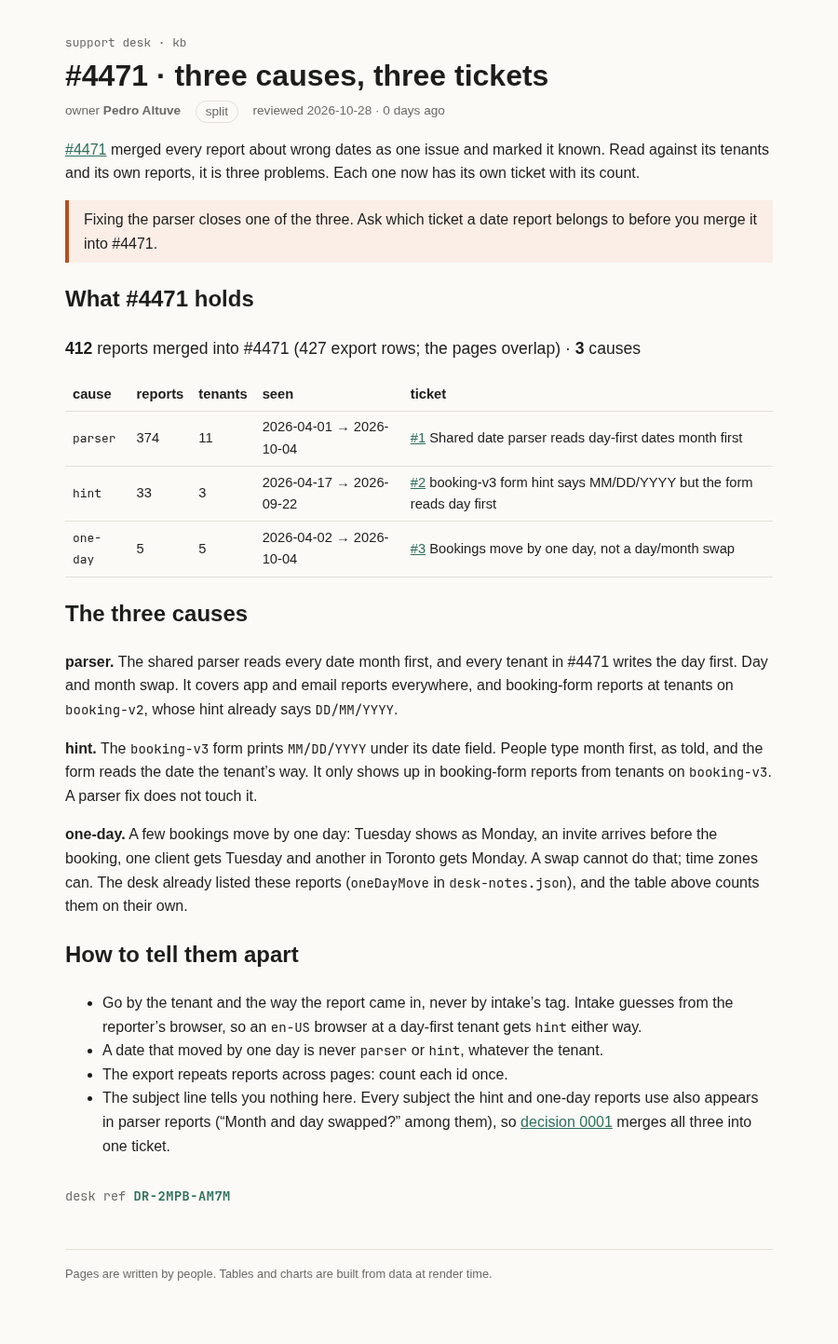
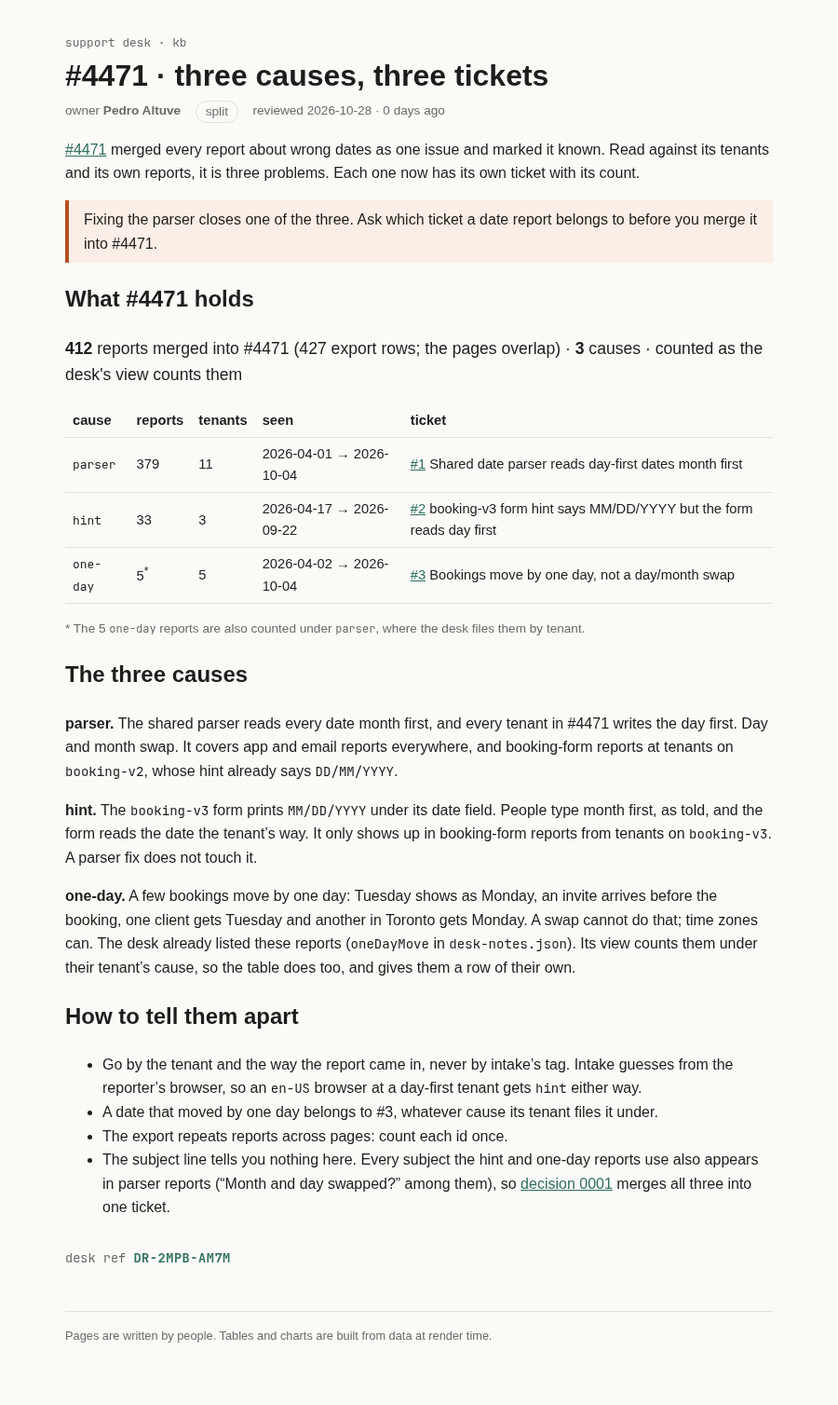
fix(kb): count #4471 causes as the desk's view counts them
Parser now counts 379, with the 5 one-day moves also counted where the
desk files them; they keep their own row for #3.

diff --git a/docs/site/kb/incidents/4471/causes/index.html b/docs/site/kb/incidents/4471/causes/index.html
@@ -9,46 +9,46 @@
 		<link href="../../../../_app/immutable/chunks/B2Ul7l_u.js" rel="modulepreload">
 		<link href="../../../../_app/immutable/chunks/BCPXOG7W.js" rel="modulepreload">
 		<link href="../../../../_app/immutable/chunks/Dh1V97Jm.js" rel="modulepreload">
-		<link href="../../../../_app/immutable/entry/app.B_okr8ek.js" rel="modulepreload">
+		<link href="../../../../_app/immutable/entry/app.Bed0JW7n.js" rel="modulepreload">
 		<link href="../../../../_app/immutable/nodes/0.BurGglGN.js" rel="modulepreload">
 		<link href="../../../../_app/immutable/chunks/DK3Fl9T5.js" rel="modulepreload">
-		<link href="../../../../_app/immutable/nodes/5._k2RzG7D.js" rel="modulepreload">
-		<link href="../../../../_app/immutable/chunks/BHTSmRNv.js" rel="modulepreload">
+		<link href="../../../../_app/immutable/nodes/5.BCavWPso.js" rel="modulepreload">
+		<link href="../../../../_app/immutable/chunks/CW1c4Dxm.js" rel="modulepreload">
 		<link href="../../../../_app/immutable/chunks/BTPwLomz.js" rel="modulepreload">
 		<link href="../../../../_app/immutable/chunks/CVBzP17p.js" rel="modulepreload">
 		<link href="../../../../_app/immutable/chunks/BIy4WKJS.js" rel="modulepreload">
 		<!--e2jw2j--><!----><title>#4471 · three causes, three tickets · support kb</title>
 		<link href="../../../../_app/immutable/assets/runbook.COyw0cbZ.css" rel="stylesheet">
 		<link href="../../../../_app/immutable/assets/Callout.AbLv9dM_.css" rel="stylesheet">
-		<link href="../../../../_app/immutable/assets/_page.BqHO3EsS.css" rel="stylesheet">
+		<link href="../../../../_app/immutable/assets/_page.53w74Nij.css" rel="stylesheet">
   </head>
   <body data-sveltekit-preload-data="hover">
     <div style="display: contents"><!--[--><!--[--><!--[0--><!--[--><!--[--><!--[-1--><!--[--><div class="kb svelte-e2jw2j"><header><a class="crumb svelte-e2jw2j" href="/kb">support desk · kb</a> <h1 class="svelte-e2jw2j">#4471 · three causes, three tickets</h1> <p class="meta svelte-e2jw2j"><span>owner <b>Pedro Altuve</b></span> <span class="status split svelte-e2jw2j">split</span> <span class="svelte-e2jw2j">reviewed 2026-10-28 · 0 days ago</span></p></header> <!--[-1--><!--]--> <main><p><a href="/kb/incidents/4471">#4471</a> merged every report about wrong dates as one issue and marked it known.
 Read against its tenants and its own reports, it is three problems. Each one now has its own
 ticket with its count.</p> <aside class="warn svelte-17bri61"><!---->Fixing the parser closes one of the three. Ask which ticket a date report belongs to before you
-merge it into #4471.<!----></aside><!----> <h2>What #4471 holds</h2> <p class="sum svelte-xskqqx"><strong>412</strong> reports merged into #4471 (427 export rows; the pages overlap) · <strong>3</strong> causes</p> <table><thead><tr><th>cause</th><th>reports</th><th>tenants</th><th>seen</th><th>ticket</th></tr></thead><tbody><!--[--><tr class="svelte-xskqqx"><td class="svelte-xskqqx"><code>parser</code></td><td class="svelte-xskqqx">374</td><td class="svelte-xskqqx">11</td><td class="svelte-xskqqx">2026-04-01 → 2026-10-04</td><td class="svelte-xskqqx"><!--[0--><a href="https://github.com/PedAltuve/mega-dev-kb/issues/1">#1</a> Shared date parser reads day-first dates month first<!--]--></td></tr><tr class="svelte-xskqqx"><td class="svelte-xskqqx"><code>hint</code></td><td class="svelte-xskqqx">33</td><td class="svelte-xskqqx">3</td><td class="svelte-xskqqx">2026-04-17 → 2026-09-22</td><td class="svelte-xskqqx"><!--[0--><a href="https://github.com/PedAltuve/mega-dev-kb/issues/2">#2</a> booking-v3 form hint says MM/DD/YYYY but the form reads day first<!--]--></td></tr><tr class="svelte-xskqqx"><td class="svelte-xskqqx"><code>one-day</code></td><td class="svelte-xskqqx">5</td><td class="svelte-xskqqx">5</td><td class="svelte-xskqqx">2026-04-02 → 2026-10-04</td><td class="svelte-xskqqx"><!--[0--><a href="https://github.com/PedAltuve/mega-dev-kb/issues/3">#3</a> Bookings move by one day, not a day/month swap<!--]--></td></tr><!--]--></tbody></table><!----> <h2>The three causes</h2> <p><strong>parser.</strong> The shared parser reads every date month first, and every tenant in #4471 writes the
+merge it into #4471.<!----></aside><!----> <h2>What #4471 holds</h2> <p class="sum svelte-xskqqx"><strong>412</strong> reports merged into #4471 (427 export rows; the pages overlap) · <strong>3</strong> causes · counted as the desk's view counts them</p> <table><thead><tr><th>cause</th><th>reports</th><th>tenants</th><th>seen</th><th>ticket</th></tr></thead><tbody><!--[--><tr class="svelte-xskqqx"><td class="svelte-xskqqx"><code>parser</code></td><td class="svelte-xskqqx">379<!--[-1--><!--]--></td><td class="svelte-xskqqx">11</td><td class="svelte-xskqqx">2026-04-01 → 2026-10-04</td><td class="svelte-xskqqx"><!--[0--><a href="https://github.com/PedAltuve/mega-dev-kb/issues/1">#1</a> Shared date parser reads day-first dates month first<!--]--></td></tr><tr class="svelte-xskqqx"><td class="svelte-xskqqx"><code>hint</code></td><td class="svelte-xskqqx">33<!--[-1--><!--]--></td><td class="svelte-xskqqx">3</td><td class="svelte-xskqqx">2026-04-17 → 2026-09-22</td><td class="svelte-xskqqx"><!--[0--><a href="https://github.com/PedAltuve/mega-dev-kb/issues/2">#2</a> booking-v3 form hint says MM/DD/YYYY but the form reads day first<!--]--></td></tr><tr class="svelte-xskqqx"><td class="svelte-xskqqx"><code>one-day</code></td><td class="svelte-xskqqx">5<!--[0--><sup>*</sup><!--]--></td><td class="svelte-xskqqx">5</td><td class="svelte-xskqqx">2026-04-02 → 2026-10-04</td><td class="svelte-xskqqx"><!--[0--><a href="https://github.com/PedAltuve/mega-dev-kb/issues/3">#3</a> Bookings move by one day, not a day/month swap<!--]--></td></tr><!--]--></tbody></table> <!--[--><p class="note svelte-xskqqx">* The 5 <code>one-day</code> reports are also counted under <code>parser</code>, where the desk files them by tenant.</p><!--]--><!----> <h2>The three causes</h2> <p><strong>parser.</strong> The shared parser reads every date month first, and every tenant in #4471 writes the
 day first. Day and month swap. It covers app and email reports everywhere, and booking-form
 reports at tenants on <code>booking-v2</code>, whose hint already says <code>DD/MM/YYYY</code>.</p> <p><strong>hint.</strong> The <code>booking-v3</code> form prints <code>MM/DD/YYYY</code> under its date field. People type month first,
 as told, and the form reads the date the tenant’s way. It only shows up in booking-form reports
 from tenants on <code>booking-v3</code>. A parser fix does not touch it.</p> <p><strong>one-day.</strong> A few bookings move by one day: Tuesday shows as Monday, an invite arrives before
 the booking, one client gets Tuesday and another in Toronto gets Monday. A swap cannot do that;
-time zones can. The desk already listed these reports (<code>oneDayMove</code> in <code>desk-notes.json</code>), and the
-table above counts them on their own.</p> <h2>How to tell them apart</h2> <ul><li>Go by the tenant and the way the report came in, never by intake’s tag. Intake guesses from the
-reporter’s browser, so an <code>en-US</code> browser at a day-first tenant gets <code>hint</code> either way.</li> <li>A date that moved by one day is never <code>parser</code> or <code>hint</code>, whatever the tenant.</li> <li>The export repeats reports across pages: count each id once.</li> <li>The subject line tells you nothing here. Every subject the hint and one-day reports use also
+time zones can. The desk already listed these reports (<code>oneDayMove</code> in <code>desk-notes.json</code>). Its view
+counts them under their tenant’s cause, so the table does too, and gives them a row of their own.</p> <h2>How to tell them apart</h2> <ul><li>Go by the tenant and the way the report came in, never by intake’s tag. Intake guesses from the
+reporter’s browser, so an <code>en-US</code> browser at a day-first tenant gets <code>hint</code> either way.</li> <li>A date that moved by one day belongs to #3, whatever cause its tenant files it under.</li> <li>The export repeats reports across pages: count each id once.</li> <li>The subject line tells you nothing here. Every subject the hint and one-day reports use also
 appears in parser reports (“Month and day swapped?” among them), so <a href="/kb/decisions/0001-dedupe-by-subject">decision 0001</a> merges all three into one ticket.</li></ul> <!--[0--><p class="stamp svelte-1280m42">desk ref <b class="svelte-1280m42">DR-2MPB-AM7M</b></p><!--]--><!----><!----></main> <footer class="svelte-e2jw2j">Pages are written by people. Tables and charts are built from data at render time.</footer></div><!--]--><!--]--><!--]--><!----><!--]--><!--]--><!--]--><!----> <!--[-1--><!--]--><!--]-->
 			
 			<script>
 				{
-					__sveltekit_llwohl = {
+					__sveltekit_9ar66p = {
 						base: new URL("../../../..", location).pathname.slice(0, -1),
-						version: "1793176654744"
+						version: "1793176889045"
 					};
 
 					const element = document.currentScript.parentElement;
 
 					import("../../../../_app/immutable/entry/start.CH5w6lId.js").then(async (kit) => {
-						kit.init(__sveltekit_llwohl);
-						const app = await import("../../../../_app/immutable/entry/app.B_okr8ek.js");
+						kit.init(__sveltekit_9ar66p);
+						const app = await import("../../../../_app/immutable/entry/app.Bed0JW7n.js");
 						kit.start(app, element, {
 							node_ids: [0, 5],
 							data: [null,null],

diff --git a/docs/site/_app/immutable/chunks/CW1c4Dxm.js b/docs/site/_app/immutable/chunks/CW1c4Dxm.js
@@ -1,0 +1,13 @@
+import{t as e}from"./DK3Fl9T5.js";import{E as t,F as n,H as r,I as i,K as a,L as o,N as s,O as c,R as l,S as u,T as d,U as f,W as p,_ as m,c as h,d as g,h as _,k as v,q as y,r as b,t as x,w as S}from"./BCPXOG7W.js";import{t as C}from"./BTPwLomz.js";import{n as w,t as T}from"./CVBzP17p.js";import{a as E,i as D,l as O,r as k,t as A}from"./BIy4WKJS.js";var j={parser:{number:1,title:`Shared date parser reads day-first dates month first`},hint:{number:2,title:`booking-v3 form hint says MM/DD/YYYY but the form reads day first`},"one-day":{number:3,title:`Bookings move by one day, not a day/month swap`}};function M(e,t,n,r){let i=O(e).filter(e=>e.mergedInto===t),a=(e,t)=>{let n=t.map(e=>e.receivedAt.slice(0,10)).sort();return{cause:e,reports:t.length,tenants:new Set(t.map(e=>e.tenant)).size,firstSeen:n[0],lastSeen:n[n.length-1],ticket:e===`unplaced`?null:j[e].number}},o=E(i,n).map(e=>a(e.cause,e.reports)),s=i.filter(e=>r.includes(e.id));if(s.length){let e=[...new Set(s.map(e=>D(e,n(e))??`unplaced`))].join(`, `);o.push({...a(`one-day`,s),filedUnder:e})}return{rows:e.filter(e=>e.mergedInto===t).length,merged:i.length,groups:o}}var N=t(`<sup>*</sup>`),P=t(`<a> </a> `,1),F=t(`<tr><td class="svelte-xskqqx"><code> </code></td><td class="svelte-xskqqx"> <!></td><td class="svelte-xskqqx"> </td><td class="svelte-xskqqx"> </td><td class="svelte-xskqqx"><!></td></tr>`),I=t(`<p class="note svelte-xskqqx"> <code> </code> reports are also counted under <code> </code>, where the desk files them by tenant.</p>`),L=t(`<p class="sum svelte-xskqqx"><strong> </strong> <strong> </strong> </p> <table><thead><tr><th>cause</th><th>reports</th><th>tenants</th><th>seen</th><th>ticket</th></tr></thead><tbody></tbody></table> <!>`,1);function R(e,t){p(t,!0);let d=r(()=>M(w,t.ticket,k,T.oneDayMove));var b=L(),x=i(b),C=n(x),E=o(C,!0),D=l(C),O=l(D),A=o(O,!0),R=l(O);y(x);var z=l(x,2),B=l(n(z));_(B,21,()=>v(d).groups,e=>e.cause,(e,t)=>{var r=F();let a;var d=n(r),f=n(d),p=o(f,!0);y(d);var _=l(d),b=n(_,!0),x=l(b),C=e=>{var t=N();S(e,t)};m(x,e=>{v(t).filedUnder&&e(C)}),y(_);var w=l(_),T=o(w,!0),E=l(w),D=o(E),O=l(E),k=n(O),A=e=>{var n=P(),r=i(n),a=o(r),c=l(r);s(()=>{h(r,`href`,`https://github.com/PedAltuve/mega-dev-kb/issues/${v(t).ticket??``}`),u(a,`#${v(t).ticket??``}`),u(c,` ${j[v(t).cause].title??``}`)}),S(e,n)},M=e=>{var t=c(`no cause found: read these by hand`);S(e,t)};m(k,e=>{v(t).ticket===null?e(M,-1):e(A)}),y(O),y(r),s(()=>{a=g(r,1,`svelte-xskqqx`,null,a,{wrong:v(t).ticket===null}),u(p,v(t).cause),u(b,v(t).reports),u(T,v(t).tenants),u(D,`${v(t).firstSeen??``} → ${v(t).lastSeen??``}`)}),S(e,r)}),y(B),y(z);var V=l(z,2);_(V,17,()=>v(d).groups.filter(e=>e.filedUnder),e=>e.cause,(e,t)=>{var r=I(),i=n(r),c=l(i),d=o(c,!0),f=l(c,2),p=o(f,!0);a(),y(r),s(()=>{u(i,`* The ${v(t).reports??``} `),u(d,v(t).cause),u(p,v(t).filedUnder)}),S(e,r)}),s(()=>{u(E,v(d).merged),u(D,` reports merged into #${t.ticket??``} (${v(d).rows??``} export rows; the pages overlap) · `),u(A,v(d).groups.length),u(R,` ${v(d).groups.length===1?`cause`:`causes`} · counted as the desk's view counts them`)}),S(e,b),f()}var z=`0123456789ABCDEFGHJKMNPQRSTVWXYZ`;function B(e,t){let n=t>>>0;for(let t=0;t<e.length;t++)n^=e.charCodeAt(t),n=Math.imul(n,16777619)>>>0;return n}function V(e){let t=e.trim(),n=B(t,2166136261),r=B(t,2654435769),i=BigInt(n)<<8n|BigInt(r&255),a=``;for(let e=0;e<8;e++)a=z[Number(i&31n)]+a,i>>=5n;return`DR-${a.slice(0,4)}-${a.slice(4)}`}var H=t(`<p class="stamp svelte-1280m42">desk ref <b class="svelte-1280m42"> </b></p>`),U=t(`<p class="stamp missing svelte-1280m42">no desk ref: this page isn't signed (no <code>signature</code> in its frontmatter)</p>`);function W(e,t){p(t,!0);let a=r(()=>t.signature?V(t.signature):null);var c=d(),h=i(c),g=e=>{var t=H(),r=l(n(t)),i=o(r,!0);y(t),s(()=>u(i,v(a))),S(e,t)},_=e=>{var t=U();S(e,t)};m(h,e=>{v(a)?e(g):e(_,-1)}),S(e,c),f()}var G=e({default:()=>$,metadata:()=>K}),K={layout:`runbook`,title:`#4471 · three causes, three tickets`,owner:`Pedro Altuve`,status:`split`,reviewed:`2026-10-28T00:00:00.000Z`,signature:`Pedro Altuve`},{layout:q,title:J,owner:Y,status:X,reviewed:ee,signature:Z}=K,Q=t(`<p><a href="/kb/incidents/4471">#4471</a> merged every report about wrong dates as one issue and marked it known.
+Read against its tenants and its own reports, it is three problems. Each one now has its own
+ticket with its count.</p> <!> <h2>What #4471 holds</h2> <!> <h2>The three causes</h2> <p><strong>parser.</strong> The shared parser reads every date month first, and every tenant in #4471 writes the
+day first. Day and month swap. It covers app and email reports everywhere, and booking-form
+reports at tenants on <code>booking-v2</code>, whose hint already says <code>DD/MM/YYYY</code>.</p> <p><strong>hint.</strong> The <code>booking-v3</code> form prints <code>MM/DD/YYYY</code> under its date field. People type month first,
+as told, and the form reads the date the tenant’s way. It only shows up in booking-form reports
+from tenants on <code>booking-v3</code>. A parser fix does not touch it.</p> <p><strong>one-day.</strong> A few bookings move by one day: Tuesday shows as Monday, an invite arrives before
+the booking, one client gets Tuesday and another in Toronto gets Monday. A swap cannot do that;
+time zones can. The desk already listed these reports (<code>oneDayMove</code> in <code>desk-notes.json</code>). Its view
+counts them under their tenant’s cause, so the table does too, and gives them a row of their own.</p> <h2>How to tell them apart</h2> <ul><li>Go by the tenant and the way the report came in, never by intake’s tag. Intake guesses from the
+reporter’s browser, so an <code>en-US</code> browser at a day-first tenant gets <code>hint</code> either way.</li> <li>A date that moved by one day belongs to #3, whatever cause its tenant files it under.</li> <li>The export repeats reports across pages: count each id once.</li> <li>The subject line tells you nothing here. Every subject the hint and one-day reports use also
+appears in parser reports (“Month and day swapped?” among them), so <a href="/kb/decisions/0001-dedupe-by-subject">decision 0001</a> merges all three into one ticket.</li></ul> <!>`,1);function $(e,t){let n=x(t,[`children`,`$$slots`,`$$events`,`$$legacy`]);C(e,b(()=>n,()=>K,{children:(e,t)=>{var n=Q(),r=l(i(n),2);A(r,{kind:`warn`,children:(e,t)=>{a();var n=c(`Fixing the parser closes one of the three. Ask which ticket a date report belongs to before you
+merge it into #4471.`);S(e,n)},$$slots:{default:!0}});var o=l(r,4);R(o,{ticket:4471}),W(l(o,14),{get signature(){return Z}}),S(e,n)},$$slots:{default:!0}}))}export{$ as n,G as t};

diff --git a/src/lib/kb/split.ts b/src/lib/kb/split.ts
@@ -1,6 +1,6 @@
 // #4471 split by cause, one ticket each. Builds on causes.ts and adds the cause it cannot see:
 // a booking that moves by one day is not a day/month swap, whatever the tenant.
-import { causeOf, uniqueById, type Report, type Tenant } from '#lib/kb/causes';
+import { causeOf, groupByCause, uniqueById, type Report, type Tenant } from '#lib/kb/causes';
 
 export type SplitCause = 'parser' | 'hint' | 'one-day' | 'unplaced';
 
@@ -13,11 +13,6 @@ export const TICKETS: Record<Exclude<SplitCause, 'unplaced'>, { number: number; 
   'one-day': { number: 3, title: 'Bookings move by one day, not a day/month swap' },
 };
 
-export function splitCauseOf(r: Report, t: Tenant | undefined, oneDayMove: readonly string[]): SplitCause {
-  if (oneDayMove.includes(r.id)) return 'one-day';
-  return causeOf(r, t) ?? 'unplaced';
-}
-
 export type SplitGroup = {
   cause: SplitCause;
   reports: number;
@@ -25,8 +20,13 @@ export type SplitGroup = {
   firstSeen: string;
   lastSeen: string;
   ticket: number | null;
+  // For one-day: the desk's view files these under another cause, by tenant. Counted there too.
+  filedUnder?: string;
 };
 
+// Counts as the desk's own view counts them (groupByCause in causes.ts): each report under the cause
+// of its tenant and channel. The one-day moves stay counted where the desk files them, and also get
+// a row of their own, because they are a different bug with their own ticket.
 export function splitTicket(
   all: Report[],
   ticket: number,
@@ -34,23 +34,22 @@ export function splitTicket(
   oneDayMove: readonly string[],
 ): { rows: number; merged: number; groups: SplitGroup[] } {
   const merged = uniqueById(all).filter((r) => r.mergedInto === ticket);
-  const byCause = new Map<SplitCause, Report[]>();
-  for (const r of merged) {
-    const c = splitCauseOf(r, tenantOf(r), oneDayMove);
-    byCause.set(c, [...(byCause.get(c) ?? []), r]);
+  const summary = (cause: SplitCause, rs: Report[]): SplitGroup => {
+    const days = rs.map((r) => r.receivedAt.slice(0, 10)).sort();
+    return {
+      cause,
+      reports: rs.length,
+      tenants: new Set(rs.map((r) => r.tenant)).size,
+      firstSeen: days[0],
+      lastSeen: days[days.length - 1],
+      ticket: cause === 'unplaced' ? null : TICKETS[cause].number,
+    };
+  };
+  const groups = groupByCause(merged, tenantOf).map((g) => summary(g.cause, g.reports));
+  const moved = merged.filter((r) => oneDayMove.includes(r.id));
+  if (moved.length) {
+    const under = [...new Set(moved.map((r) => causeOf(r, tenantOf(r)) ?? 'unplaced'))].join(', ');
+    groups.push({ ...summary('one-day', moved), filedUnder: under });
   }
-  const groups = [...byCause.entries()]
-    .map(([cause, rs]) => {
-      const days = rs.map((r) => r.receivedAt.slice(0, 10)).sort();
-      return {
-        cause,
-        reports: rs.length,
-        tenants: new Set(rs.map((r) => r.tenant)).size,
-        firstSeen: days[0],
-        lastSeen: days[days.length - 1],
-        ticket: cause === 'unplaced' ? null : TICKETS[cause].number,
-      };
-    })
-    .sort((a, b) => b.reports - a.reports);
   return { rows: all.filter((r) => r.mergedInto === ticket).length, merged: merged.length, groups };
 }

diff --git a/docs/site/kb/index.html b/docs/site/kb/index.html
@@ -9,22 +9,22 @@
 		<link href="../_app/immutable/chunks/B2Ul7l_u.js" rel="modulepreload">
 		<link href="../_app/immutable/chunks/BCPXOG7W.js" rel="modulepreload">
 		<link href="../_app/immutable/chunks/Dh1V97Jm.js" rel="modulepreload">
-		<link href="../_app/immutable/entry/app.B_okr8ek.js" rel="modulepreload">
+		<link href="../_app/immutable/entry/app.Bed0JW7n.js" rel="modulepreload">
 		<link href="../_app/immutable/nodes/0.BurGglGN.js" rel="modulepreload">
 		<link href="../_app/immutable/chunks/DK3Fl9T5.js" rel="modulepreload">
-		<link href="../_app/immutable/nodes/2.CjNZt_vn.js" rel="modulepreload">
+		<link href="../_app/immutable/nodes/2.D1dmh-sg.js" rel="modulepreload">
 		<link href="../_app/immutable/chunks/BTPwLomz.js" rel="modulepreload">
 		<link href="../_app/immutable/chunks/YX22L_Ud.js" rel="modulepreload">
 		<link href="../_app/immutable/chunks/CgeRC4yK.js" rel="modulepreload">
 		<link href="../_app/immutable/chunks/CVBzP17p.js" rel="modulepreload">
 		<link href="../_app/immutable/chunks/BIy4WKJS.js" rel="modulepreload">
-		<link href="../_app/immutable/chunks/BHTSmRNv.js" rel="modulepreload">
+		<link href="../_app/immutable/chunks/CW1c4Dxm.js" rel="modulepreload">
 		<link href="../_app/immutable/chunks/BGqJVSDw.js" rel="modulepreload">
 		<!--e2jw2j--><!----><title>Support knowledge base · support kb</title>
 		<link href="../_app/immutable/assets/runbook.COyw0cbZ.css" rel="stylesheet">
 		<link href="../_app/immutable/assets/Callout.AbLv9dM_.css" rel="stylesheet">
 		<link href="../_app/immutable/assets/_page.D56XP2ro.css" rel="stylesheet">
-		<link href="../_app/immutable/assets/_page.BqHO3EsS.css" rel="stylesheet">
+		<link href="../_app/immutable/assets/_page.53w74Nij.css" rel="stylesheet">
 		<link href="../_app/immutable/assets/_page.DO6Yid7X.css" rel="stylesheet">
 		<link href="../_app/immutable/assets/2.Bt0MwIZg.css" rel="stylesheet">
   </head>
@@ -34,16 +34,16 @@ computed by a component, not typed into a paragraph.</p><!----></main> <footer c
 			
 			<script>
 				{
-					__sveltekit_llwohl = {
+					__sveltekit_9ar66p = {
 						base: new URL("..", location).pathname.slice(0, -1),
-						version: "1793176654744"
+						version: "1793176889045"
 					};
 
 					const element = document.currentScript.parentElement;
 
 					import("../_app/immutable/entry/start.CH5w6lId.js").then(async (kit) => {
-						kit.init(__sveltekit_llwohl);
-						const app = await import("../_app/immutable/entry/app.B_okr8ek.js");
+						kit.init(__sveltekit_9ar66p);
+						const app = await import("../_app/immutable/entry/app.Bed0JW7n.js");
 						kit.start(app, element, {
 							node_ids: [0, 2],
 							data: [null,null],

diff --git a/docs/site/_app/immutable/nodes/2.D1dmh-sg.js b/docs/site/_app/immutable/nodes/2.D1dmh-sg.js
@@ -1,0 +1,2 @@
+import{E as e,F as t,I as n,K as r,L as i,N as a,R as o,S as s,U as c,W as l,c as u,d,h as f,i as p,k as m,q as h,r as g,t as _,w as v}from"../chunks/BCPXOG7W.js";import{n as y,r as b,t as x}from"../chunks/BTPwLomz.js";import{t as S}from"../chunks/YX22L_Ud.js";import{t as C}from"../chunks/CgeRC4yK.js";import{t as w}from"../chunks/CW1c4Dxm.js";import{t as T}from"../chunks/BGqJVSDw.js";var E=e(`<tr><td><a> </a></td><td> </td><td> </td><td> </td></tr>`),D=e(`<table><thead><tr><th>page</th><th>owner</th><th>status</th><th>reviewed</th></tr></thead><tbody></tbody></table>`);function O(e,n){l(n,!1);let r=Object.entries(Object.assign({"/src/routes/kb/decisions/0001-dedupe-by-subject/+page.svx":S,"/src/routes/kb/incidents/4471/+page.svx":C,"/src/routes/kb/incidents/4471/causes/+page.svx":w,"/src/routes/kb/triage/dedupe/+page.svx":T})).map(([e,t])=>({href:e.replace(`/src/routes`,``).replace(`/+page.svx`,``),...t.metadata})).sort((e,t)=>e.href.localeCompare(t.href));p();var g=D(),_=o(t(g));f(_,5,()=>r,e=>e.href,(e,n)=>{var r=E(),c=t(r),l=t(c),f=i(l,!0);h(c);var p=o(c),g=i(p,!0),_=o(p),x=i(_,!0),S=o(_);let C;var w=i(S,!0);h(r),a((e,t)=>{u(l,`href`,m(n).href),s(f,m(n).title),s(g,m(n).owner),s(x,m(n).status),C=d(S,1,`svelte-tbc1ha`,null,C,{stale:e}),s(w,t)},[()=>y(m(n).reviewed)>180,()=>b(m(n).reviewed)]),v(e,r)}),h(_),h(g),v(e,g),c()}var k={layout:`runbook`,title:`Support knowledge base`,owner:`support desk`,status:`living`,reviewed:`2026-09-28T00:00:00.000Z`},{layout:A,title:j,owner:M,status:N,reviewed:P}=k,F=e(`<p>What the support desk knows, kept next to the code that knows it. One desk, every product: <code>sched-prod</code> (calendar invites for about 300k people) and the rest. When something breaks, the reports land here first.</p> <p>Start with <a href="/kb/triage/dedupe">triage</a> if you are new on the desk.</p> <h2>Pages</h2> <!> <h2>Writing a page</h2> <p>Keep the words here and the logic in <code>src/lib</code>. A number that can be computed should be
+computed by a component, not typed into a paragraph.</p>`,1);function I(e,t){let i=_(t,[`children`,`$$slots`,`$$events`,`$$legacy`]);x(e,g(()=>i,()=>k,{children:(e,t)=>{var i=F();O(o(n(i),6),{}),r(4),v(e,i)},$$slots:{default:!0}}))}export{I as component};

diff --git a/docs/site/_app/immutable/entry/app.Bed0JW7n.js b/docs/site/_app/immutable/entry/app.Bed0JW7n.js
@@ -1,0 +1,2 @@
+const __vite__mapDeps=(i,m=__vite__mapDeps,d=(m.f||(m.f=["../nodes/0.BurGglGN.js","../chunks/DK3Fl9T5.js","../chunks/BCPXOG7W.js","../nodes/1.mOwa9YdW.js","../chunks/Dh1V97Jm.js","./payload.DSmR2FwN.js","../nodes/2.D1dmh-sg.js","../chunks/BTPwLomz.js","../assets/runbook.COyw0cbZ.css","../chunks/YX22L_Ud.js","../chunks/CgeRC4yK.js","../chunks/CVBzP17p.js","../chunks/BIy4WKJS.js","../assets/Callout.AbLv9dM_.css","../assets/_page.D56XP2ro.css","../chunks/CW1c4Dxm.js","../assets/_page.53w74Nij.css","../chunks/BGqJVSDw.js","../assets/_page.DO6Yid7X.css","../assets/2.Bt0MwIZg.css","../nodes/3.DRxPfvn3.js","../nodes/4.rt2PfD_4.js","../nodes/5.BCavWPso.js","../nodes/6.sFtxrtyV.js"])))=>i.map(i=>d[i]);
+import{t as e}from"../chunks/CRzLMJPS.js";var t={},n=[()=>e(()=>import(`../nodes/0.BurGglGN.js`),__vite__mapDeps([0,1,2]),import.meta.url),()=>e(()=>import(`../nodes/1.mOwa9YdW.js`),__vite__mapDeps([3,2,4,5]),import.meta.url),()=>e(()=>import(`../nodes/2.D1dmh-sg.js`),__vite__mapDeps([6,2,7,8,9,1,10,11,12,13,14,15,16,17,18,19]),import.meta.url),()=>e(()=>import(`../nodes/3.DRxPfvn3.js`),__vite__mapDeps([20,9,1,2,7,8]),import.meta.url),()=>e(()=>import(`../nodes/4.rt2PfD_4.js`),__vite__mapDeps([21,10,1,2,7,8,11,12,13,14]),import.meta.url),()=>e(()=>import(`../nodes/5.BCavWPso.js`),__vite__mapDeps([22,15,1,2,7,8,11,12,13,16]),import.meta.url),()=>e(()=>import(`../nodes/6.sFtxrtyV.js`),__vite__mapDeps([23,17,1,2,7,8,12,13,18]),import.meta.url)],r=[],i={"/kb":[2],"/kb/decisions/0001-dedupe-by-subject":[3],"/kb/incidents/4471":[4],"/kb/incidents/4471/causes":[5],"/kb/triage/dedupe":[6]},a={handleError:(({kind:e,error:t})=>{e===`unknown`&&console.error(t)}),reroute:(()=>{}),transport:{}},o=Object.fromEntries(Object.entries(a.transport).map(([e,t])=>[e,t.decode])),s=Object.fromEntries(Object.entries(a.transport).map(([e,t])=>[e,t.encode])),c=!1,l=(e,t)=>o[e](t),u=()=>e(()=>import(`../chunks/Bjy-W4x2.js`).then(e=>e.default),[],import.meta.url);export{l as decode,o as decoders,i as dictionary,s as encoders,u as get_error_template,c as hash,a as hooks,t as matchers,n as nodes,r as server_loads};

diff --git a/docs/site/kb/decisions/0001-dedupe-by-subject/index.html b/docs/site/kb/decisions/0001-dedupe-by-subject/index.html
@@ -9,7 +9,7 @@
 		<link href="../../../_app/immutable/chunks/B2Ul7l_u.js" rel="modulepreload">
 		<link href="../../../_app/immutable/chunks/BCPXOG7W.js" rel="modulepreload">
 		<link href="../../../_app/immutable/chunks/Dh1V97Jm.js" rel="modulepreload">
-		<link href="../../../_app/immutable/entry/app.B_okr8ek.js" rel="modulepreload">
+		<link href="../../../_app/immutable/entry/app.Bed0JW7n.js" rel="modulepreload">
 		<link href="../../../_app/immutable/nodes/0.BurGglGN.js" rel="modulepreload">
 		<link href="../../../_app/immutable/chunks/DK3Fl9T5.js" rel="modulepreload">
 		<link href="../../../_app/immutable/nodes/3.DRxPfvn3.js" rel="modulepreload">
@@ -26,16 +26,16 @@ engineering merges them later.</li></ul><!----></main> <footer class="svelte-e2j
 			
 			<script>
 				{
-					__sveltekit_llwohl = {
+					__sveltekit_9ar66p = {
 						base: new URL("../../..", location).pathname.slice(0, -1),
-						version: "1793176654744"
+						version: "1793176889045"
 					};
 
 					const element = document.currentScript.parentElement;
 
 					import("../../../_app/immutable/entry/start.CH5w6lId.js").then(async (kit) => {
-						kit.init(__sveltekit_llwohl);
-						const app = await import("../../../_app/immutable/entry/app.B_okr8ek.js");
+						kit.init(__sveltekit_9ar66p);
+						const app = await import("../../../_app/immutable/entry/app.Bed0JW7n.js");
 						kit.start(app, element, {
 							node_ids: [0, 3],
 							data: [null,null],

diff --git a/docs/site/kb/incidents/4471/index.html b/docs/site/kb/incidents/4471/index.html
@@ -9,7 +9,7 @@
 		<link href="../../../_app/immutable/chunks/B2Ul7l_u.js" rel="modulepreload">
 		<link href="../../../_app/immutable/chunks/BCPXOG7W.js" rel="modulepreload">
 		<link href="../../../_app/immutable/chunks/Dh1V97Jm.js" rel="modulepreload">
-		<link href="../../../_app/immutable/entry/app.B_okr8ek.js" rel="modulepreload">
+		<link href="../../../_app/immutable/entry/app.Bed0JW7n.js" rel="modulepreload">
 		<link href="../../../_app/immutable/nodes/0.BurGglGN.js" rel="modulepreload">
 		<link href="../../../_app/immutable/chunks/DK3Fl9T5.js" rel="modulepreload">
 		<link href="../../../_app/immutable/nodes/4.rt2PfD_4.js" rel="modulepreload">
@@ -29,16 +29,16 @@ first. The fix is queued.</p> <aside class="note svelte-17bri61"><!---->Known. O
 			
 			<script>
 				{
-					__sveltekit_llwohl = {
+					__sveltekit_9ar66p = {
 						base: new URL("../../..", location).pathname.slice(0, -1),
-						version: "1793176654744"
+						version: "1793176889045"
 					};
 
 					const element = document.currentScript.parentElement;
 
 					import("../../../_app/immutable/entry/start.CH5w6lId.js").then(async (kit) => {
-						kit.init(__sveltekit_llwohl);
-						const app = await import("../../../_app/immutable/entry/app.B_okr8ek.js");
+						kit.init(__sveltekit_9ar66p);
+						const app = await import("../../../_app/immutable/entry/app.Bed0JW7n.js");
 						kit.start(app, element, {
 							node_ids: [0, 4],
 							data: [null,null],

diff --git a/docs/site/kb/triage/dedupe/index.html b/docs/site/kb/triage/dedupe/index.html
@@ -9,7 +9,7 @@
 		<link href="../../../_app/immutable/chunks/B2Ul7l_u.js" rel="modulepreload">
 		<link href="../../../_app/immutable/chunks/BCPXOG7W.js" rel="modulepreload">
 		<link href="../../../_app/immutable/chunks/Dh1V97Jm.js" rel="modulepreload">
-		<link href="../../../_app/immutable/entry/app.B_okr8ek.js" rel="modulepreload">
+		<link href="../../../_app/immutable/entry/app.Bed0JW7n.js" rel="modulepreload">
 		<link href="../../../_app/immutable/nodes/0.BurGglGN.js" rel="modulepreload">
 		<link href="../../../_app/immutable/chunks/DK3Fl9T5.js" rel="modulepreload">
 		<link href="../../../_app/immutable/nodes/6.sFtxrtyV.js" rel="modulepreload">
@@ -29,16 +29,16 @@ anything else.<!----></aside><!----> <h2>Try it</h2> <div class="try svelte-gq0h
 			
 			<script>
 				{
-					__sveltekit_llwohl = {
+					__sveltekit_9ar66p = {
 						base: new URL("../../..", location).pathname.slice(0, -1),
-						version: "1793176654744"
+						version: "1793176889045"
 					};
 
 					const element = document.currentScript.parentElement;
 
 					import("../../../_app/immutable/entry/start.CH5w6lId.js").then(async (kit) => {
-						kit.init(__sveltekit_llwohl);
-						const app = await import("../../../_app/immutable/entry/app.B_okr8ek.js");
+						kit.init(__sveltekit_9ar66p);
+						const app = await import("../../../_app/immutable/entry/app.Bed0JW7n.js");
 						kit.start(app, element, {
 							node_ids: [0, 6],
 							data: [null,null],

diff --git a/src/lib/kb/SplitTable.svelte b/src/lib/kb/SplitTable.svelte
@@ -13,7 +13,7 @@
 <p class="sum">
   <strong>{split.merged}</strong> reports merged into #{ticket} ({split.rows} export rows; the pages overlap) ·
   <strong>{split.groups.length}</strong>
-  {split.groups.length === 1 ? 'cause' : 'causes'}
+  {split.groups.length === 1 ? 'cause' : 'causes'} · counted as the desk's view counts them
 </p>
 
 <table>
@@ -24,7 +24,7 @@
     {#each split.groups as g (g.cause)}
       <tr class:wrong={g.ticket === null}>
         <td><code>{g.cause}</code></td>
-        <td>{g.reports}</td>
+        <td>{g.reports}{#if g.filedUnder}<sup>*</sup>{/if}</td>
         <td>{g.tenants}</td>
         <td>{g.firstSeen} → {g.lastSeen}</td>
         <td>
@@ -39,7 +39,12 @@
   </tbody>
 </table>
 
+{#each split.groups.filter((g) => g.filedUnder) as g (g.cause)}
+  <p class="note">* The {g.reports} <code>{g.cause}</code> reports are also counted under <code>{g.filedUnder}</code>, where the desk files them by tenant.</p>
+{/each}
+
 <style>
   .sum { font-size: 1.1rem; }
+  .note { color: var(--muted); font-size: 0.85em; }
   .wrong td { background: var(--warn-bg); color: var(--warn); }
 </style>

diff --git a/docs/site/_app/immutable/assets/_page.53w74Nij.css b/docs/site/_app/immutable/assets/_page.53w74Nij.css
@@ -1,0 +1,1 @@
+.sum.svelte-xskqqx{font-size:1.1rem}.note.svelte-xskqqx{color:var(--muted);font-size:.85em}.wrong.svelte-xskqqx td:where(.svelte-xskqqx){background:var(--warn-bg);color:var(--warn)}.stamp.svelte-1280m42{font:.85rem var(--mono);color:var(--muted);margin:2rem 0 0}.stamp.svelte-1280m42 b:where(.svelte-1280m42){color:var(--accent);letter-spacing:.04em}.missing.svelte-1280m42{color:var(--warn)}

diff --git a/docs/site/_app/immutable/nodes/5.BCavWPso.js b/docs/site/_app/immutable/nodes/5.BCavWPso.js
@@ -1,0 +1,1 @@
+export{n as component}from"../chunks/CW1c4Dxm.js";
